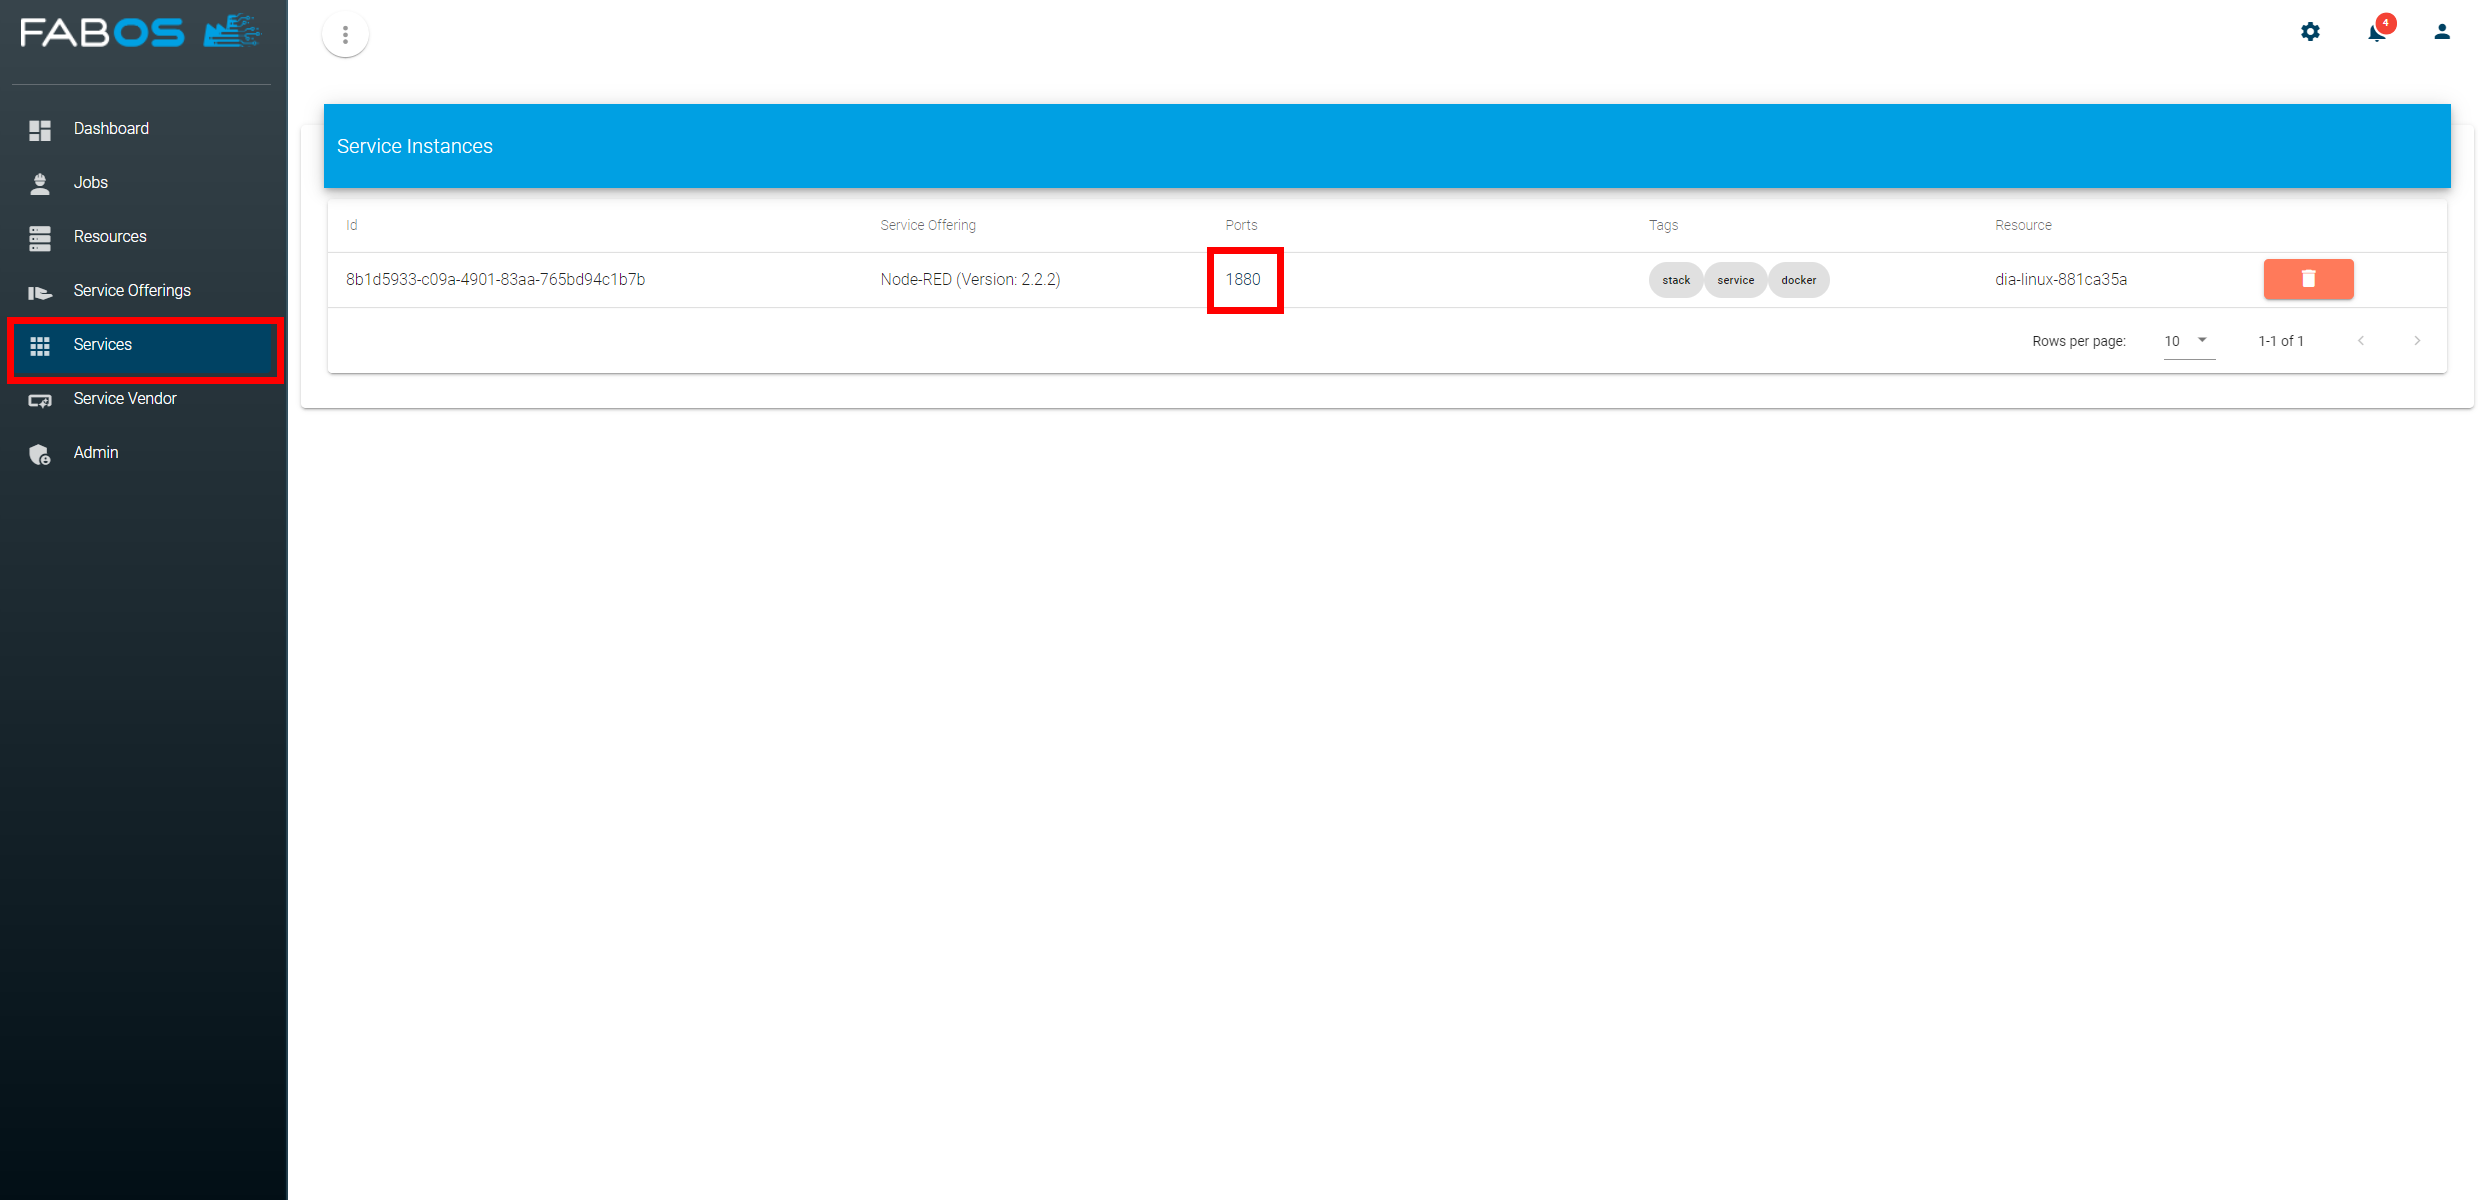
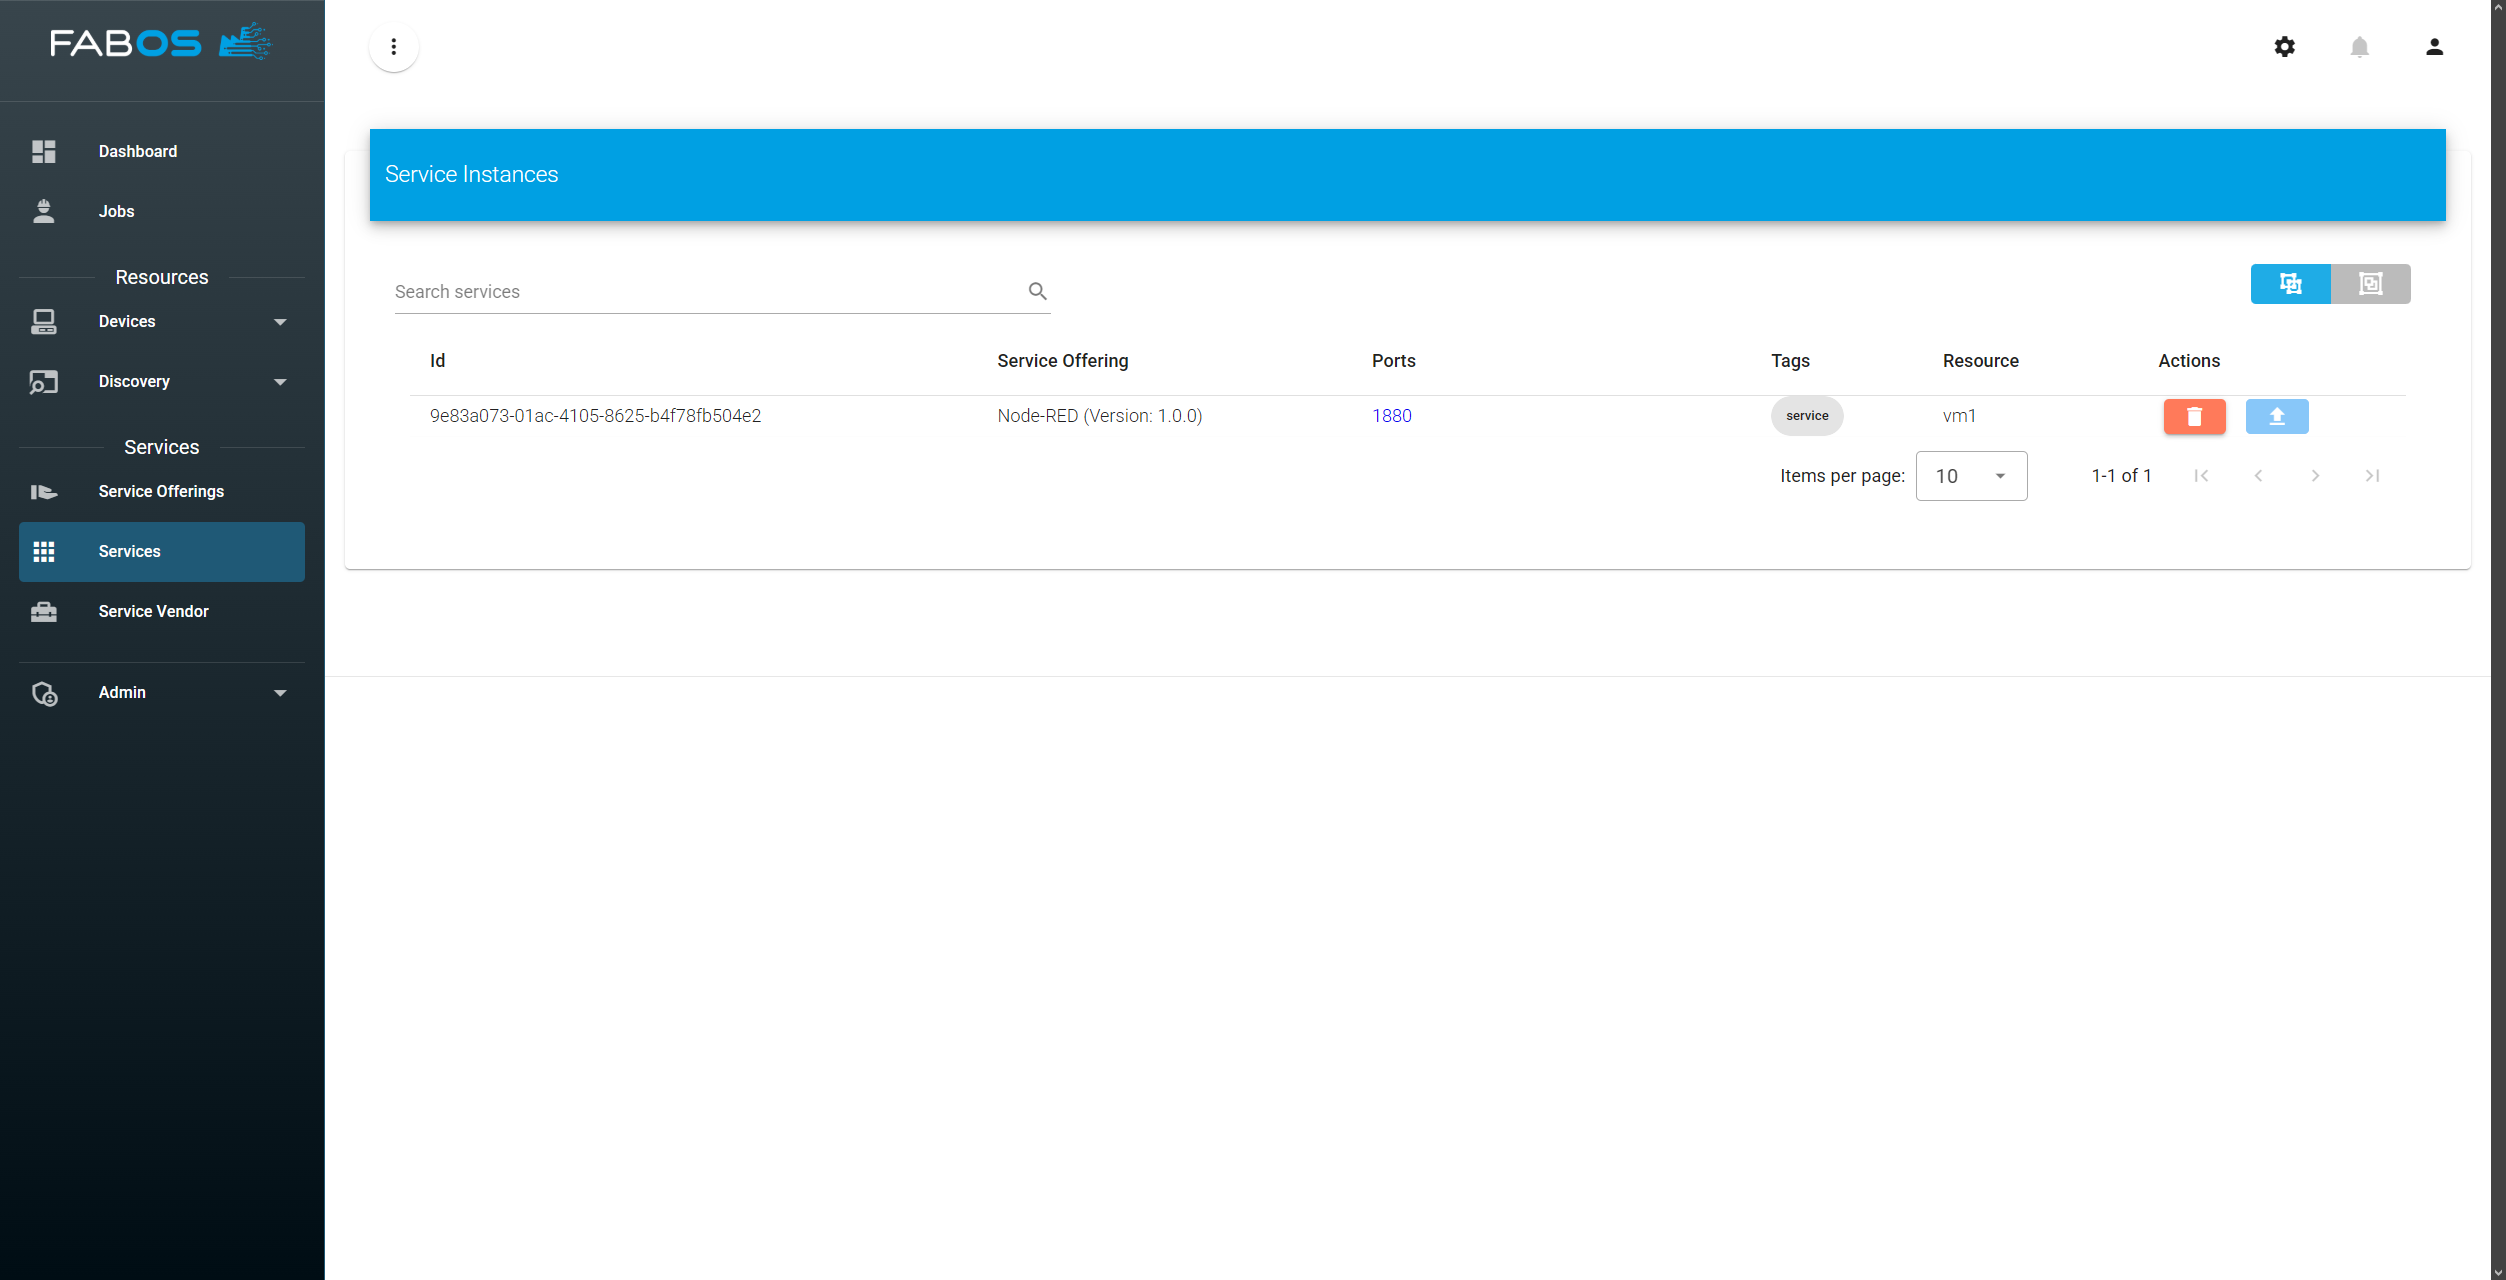
Add instructions for deleting a deployed service in step5-deploy-service.md (#43)

diff --git a/docs/docs/getting-started/first-steps/step5-deploy-service.md b/docs/docs/getting-started/first-steps/step5-deploy-service.md
@@ -21,4 +21,8 @@ The deployment of the service on your device is triggered and will take some tim
 If you click on the port of the service instance your deployed Node-RED instance should open:
 ![first-steps-step5-wizard-result](/img/figures/first-steps/first-steps-step5-wizard-result.png)
 
-**Congratulations, you have deployed your first service using the Service Lifecycle Management!**
+**Congratulations, you have deployed your first service using the Service Lifecycle Management!** 
+
+To delete the Deployment go back to the service view and click on the :wastebasket: button. Confirm the deletion by clicking on `YES` in the pop-up:
+
+![first-steps-step5-delete-service-instance](/img/figures/first-steps/first-steps-step5-delete-service-instance.png)
